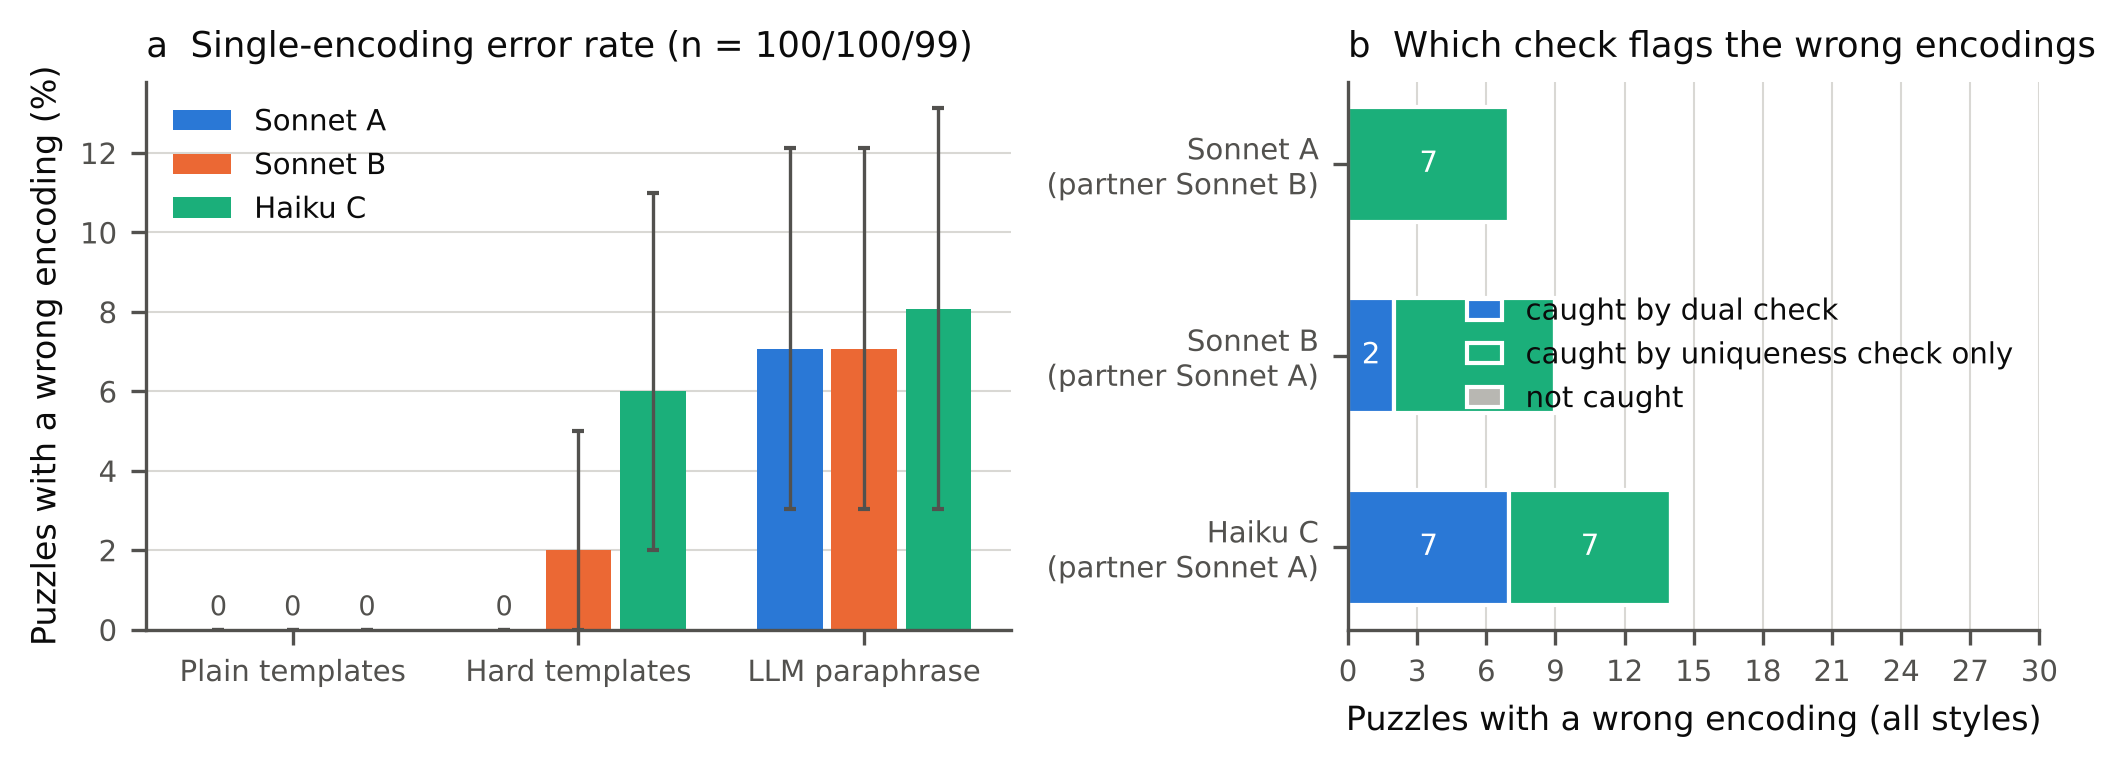
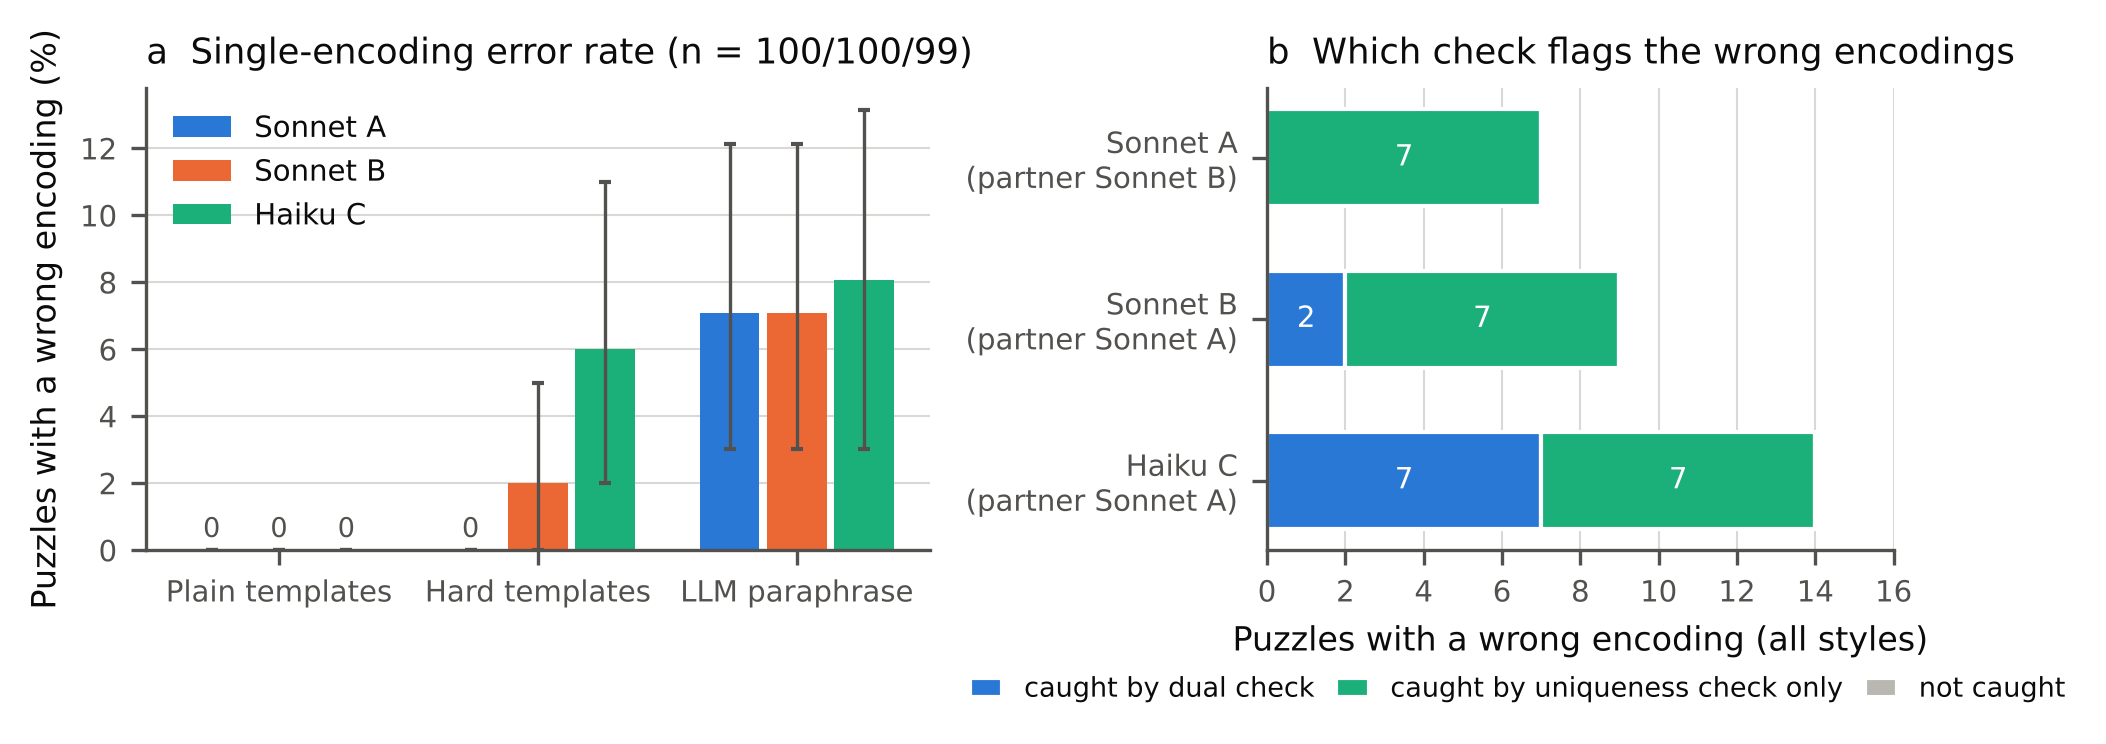
Fig 2 legend; E4s eval output

diff --git a/src/fig_e1.py b/src/fig_e1.py
@@ -70,9 +70,9 @@ def main():
     ax.invert_yaxis()
     ax.set_xlabel("Puzzles with a wrong encoding (all styles)")
     ax.set_title("b  Which check flags the wrong encodings", loc="left")
-    ax.set_xlim(0, 2 * data.sum(axis=1).max() + 2)
+    ax.set_xlim(0, data.sum(axis=1).max() + 2)
     ax.xaxis.set_major_locator(plt.MaxNLocator(integer=True))
-    ax.legend(loc="center right", handlelength=1.2)
+    ax.legend(loc="upper center", bbox_to_anchor=(0.4, -0.22), ncol=3, handlelength=1.2, fontsize=6.5, columnspacing=0.8)
     ax.grid(axis="y", visible=False)
     fig.tight_layout()
     save(fig, "fig2_faithfulness")
